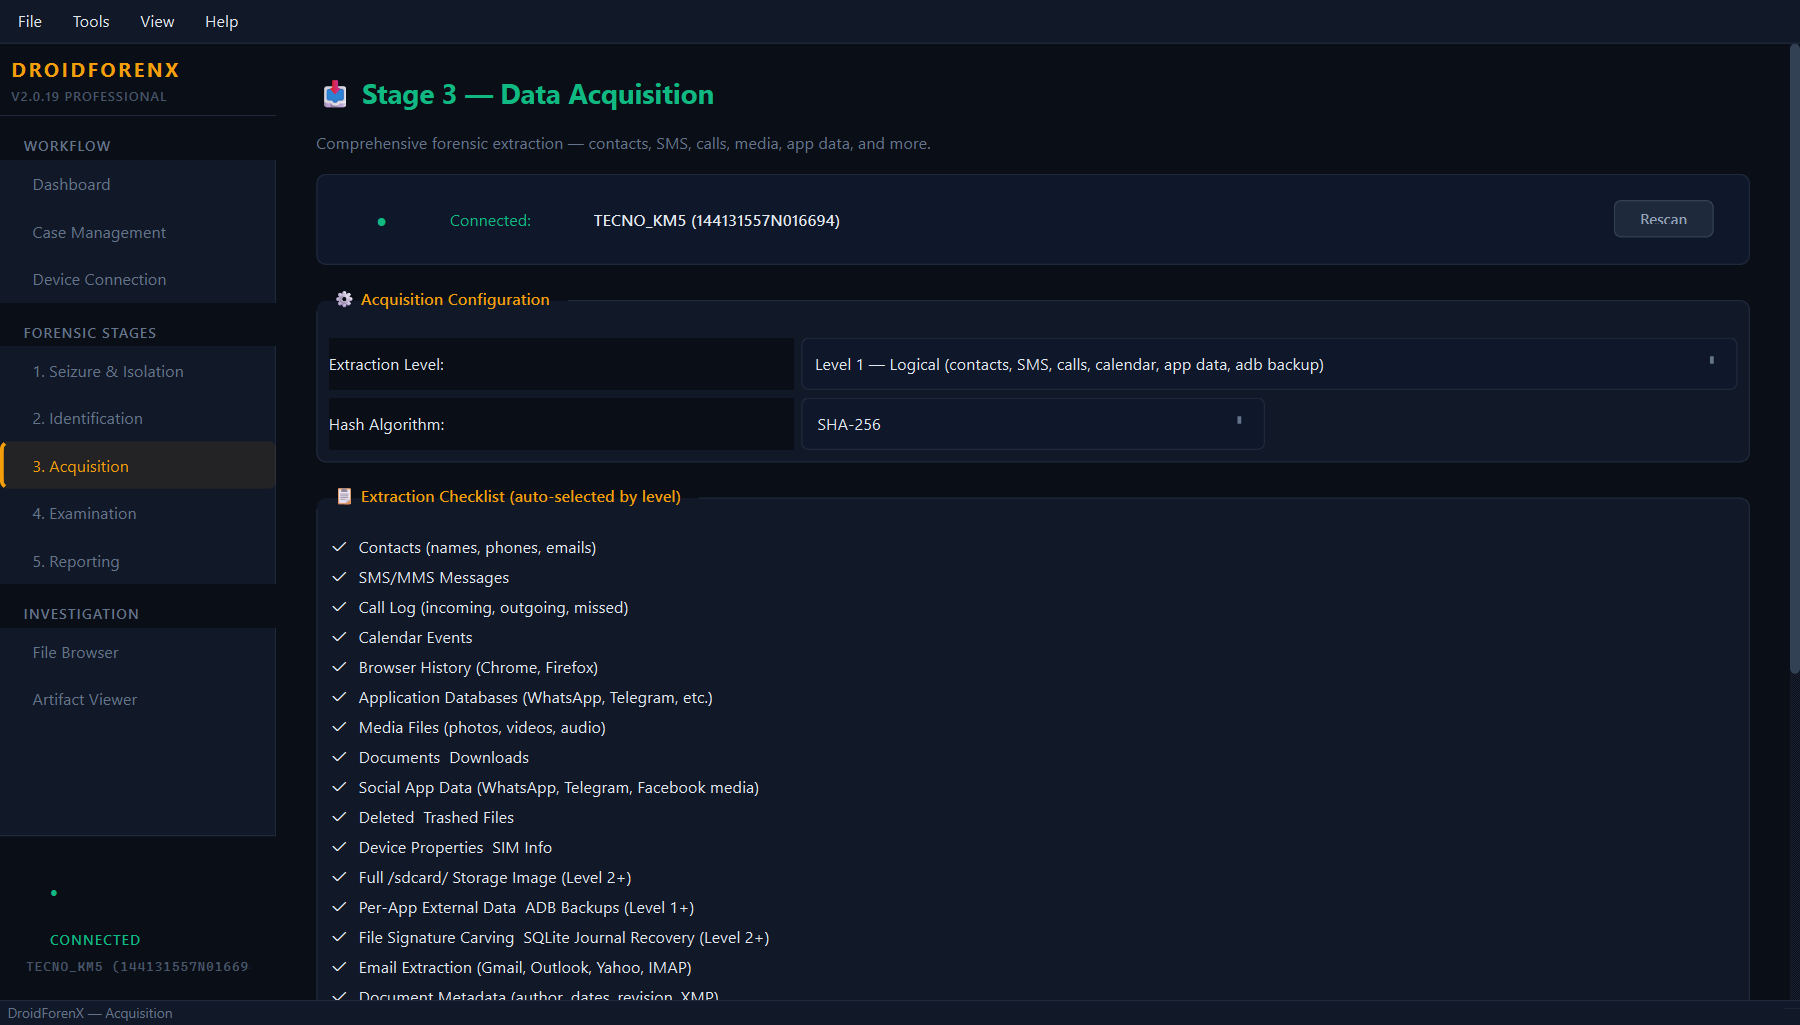
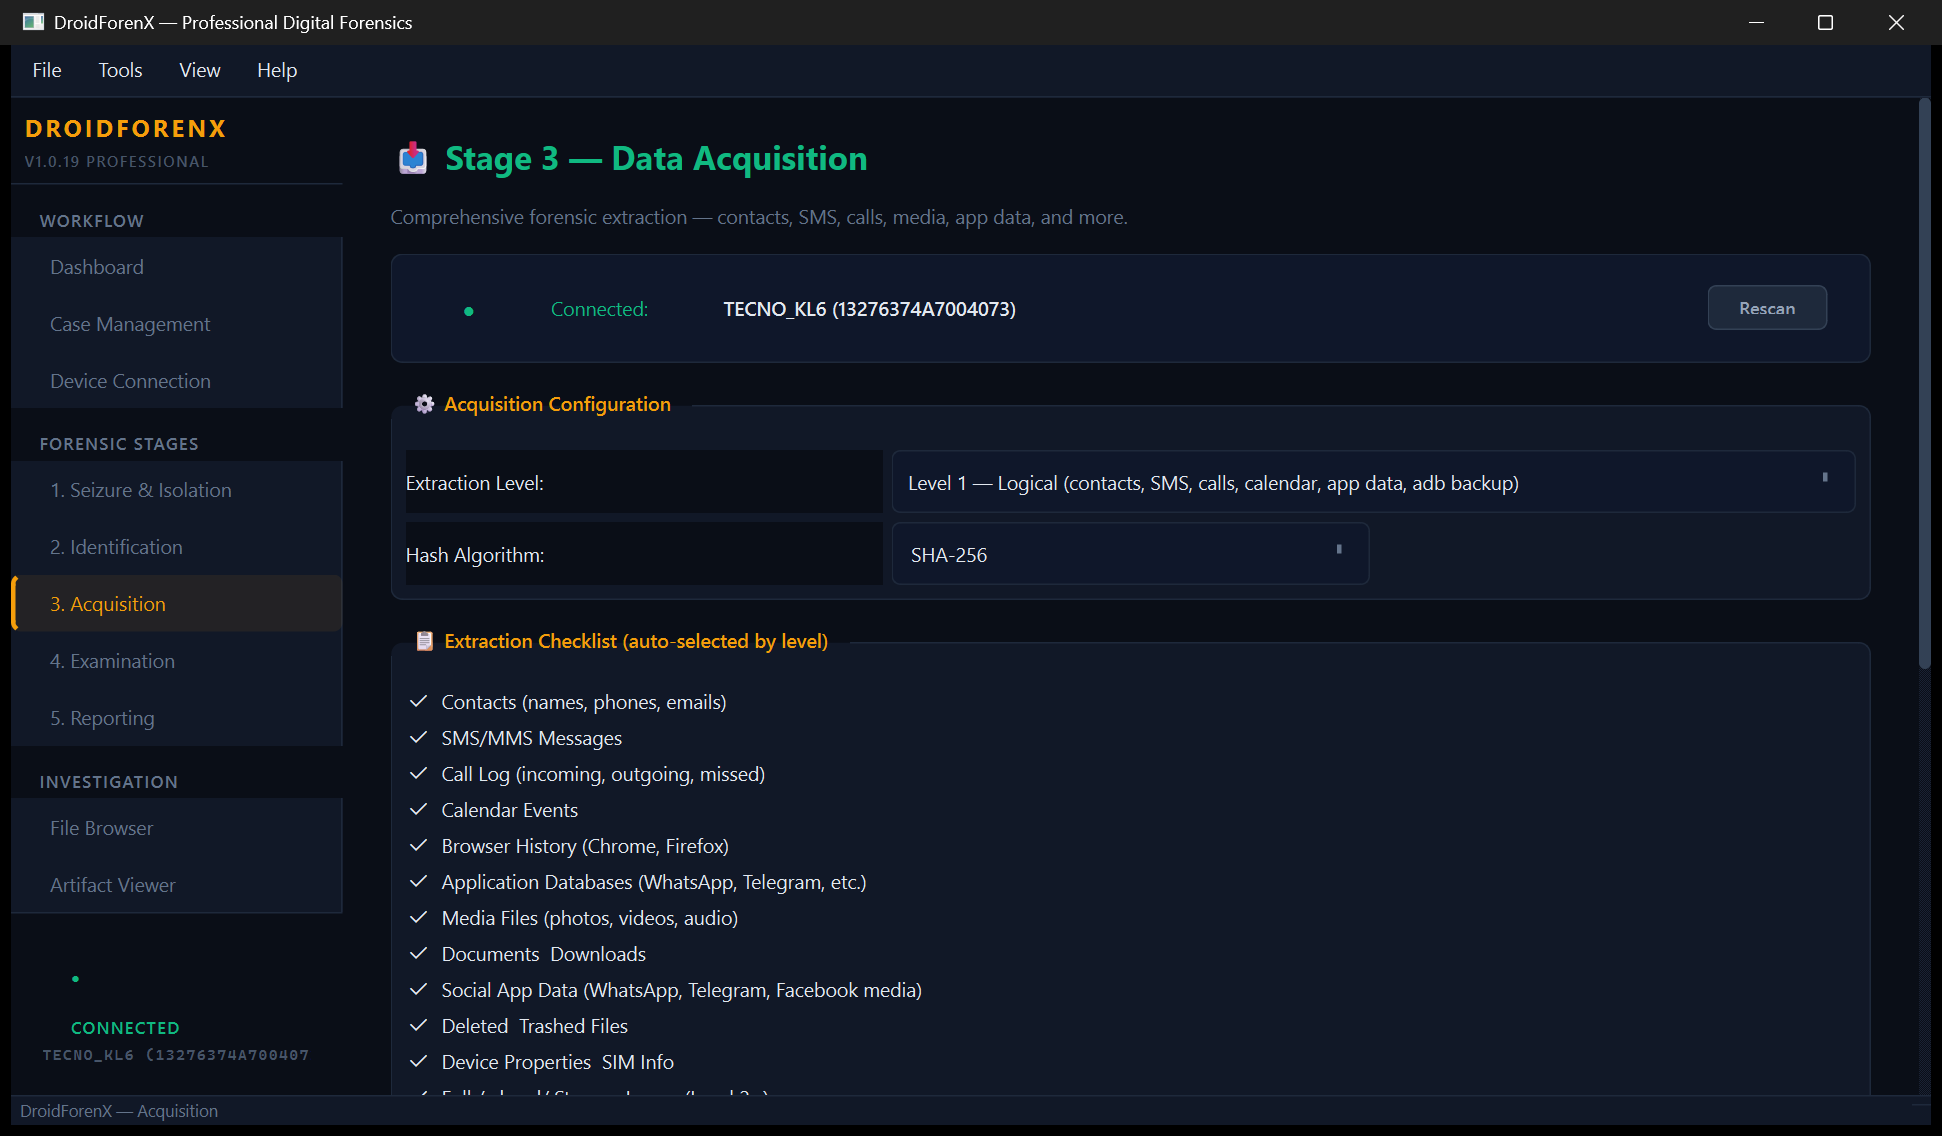
Refresh screenshots against v1.0.19 and repoint the download page

diff --git a/docs/index.html b/docs/index.html
@@ -119,11 +119,11 @@
 </nav>
 
 <section class="hero">
-    <div class="badge"><span class="dot"></span> v2.0.19 — Latest Release</div>
+    <div class="badge"><span class="dot"></span> v1.0.19 — Latest Release</div>
     <h1>Professional Mobile<br>Digital Forensics</h1>
     <p>Standalone desktop toolkit for Android device forensic analysis. 5-stage forensic workflow, 24 artifact loaders, selectable Raw (dd) / ZIP image output, court-ready reporting. Single .exe, no installation.</p>
     <div class="hero-btns">
-        <a class="btn btn-primary" href="https://github.com/tecxe/DroidForenX/releases/download/v2.0.19/DroidForenX.exe" download>
+        <a class="btn btn-primary" href="https://github.com/tecxe/DroidForenX/releases/download/v1.0.19/DroidForenX.exe" download>
             <svg viewBox="0 0 24 24" fill="none" stroke="currentColor" stroke-width="2"><path d="M21 15v4a2 2 0 01-2 2H5a2 2 0 01-2-2v-4"/><polyline points="7 10 12 15 17 10"/><line x1="12" y1="15" x2="12" y2="3"/></svg>
             Download DroidForenX.exe
         </a>
@@ -135,7 +135,7 @@
 </section>
 
 <div class="stats">
-    <div class="stat"><div class="stat-val">53.7 MB</div><div class="stat-label">File Size</div></div>
+    <div class="stat"><div class="stat-val">62.0 MB</div><div class="stat-label">File Size</div></div>
     <div class="stat"><div class="stat-val">5</div><div class="stat-label">Forensic Stages</div></div>
     <div class="stat"><div class="stat-val">24</div><div class="stat-label">Artifact Loaders</div></div>
     <div class="stat"><div class="stat-val">0</div><div class="stat-label">Dependencies Required</div></div>
@@ -235,17 +235,17 @@
             </div>
             <div class="info-card">
                 <div class="label">File Size</div>
-                <div class="value">53.7 MB</div>
+                <div class="value">62.0 MB</div>
             </div>
             <div class="info-card">
                 <div class="label">Version</div>
-                <div class="value">v2.0.19</div>
+                <div class="value">v1.0.19</div>
             </div>
         </div>
 
         <h3 style="margin-bottom:12px">SHA-256 Hash</h3>
         <div class="hash-box">
-            <code id="hash">293c106943000556ad449b16c07e86551b3f7c6eae4c0f0623670641677e7cc0</code>
+            <code id="hash">e395b76898f8d4c1c63168140dfec7dc7524b92d520002702ae0d10eeb64c856</code>
             <button class="copy-btn" onclick="copyHash()">Copy Hash</button>
         </div>
 
@@ -287,11 +287,11 @@
 </section>
 
 <footer>
-    <p>DroidForenX v2.0.19 &middot; Built by <a href="https://github.com/tecxe" target="_blank">tecxe</a> &middot; <a href="https://github.com/tecxe/DroidForenX" target="_blank">Source on GitHub</a></p>
+    <p>DroidForenX v1.0.19 &middot; Built by <a href="https://github.com/tecxe" target="_blank">tecxe</a> &middot; <a href="https://github.com/tecxe/DroidForenX" target="_blank">Source on GitHub</a></p>
 </footer>
 
 <script>
[2 lines of base64/hex data omitted]
 
 function copyHash() {
     navigator.clipboard.writeText(EXPECTED_HASH).then(() => {

diff --git a/README.md b/README.md
@@ -44,7 +44,7 @@ copy, and records an append-only chain of custody for every action.
 ## Screenshots
 
 Every frame below is the running application, not a mock-up, captured on
-**21 October 2026** with a **TECNO KM5** (Android 15 / API 35, unrooted)
+**23 October 2026** with a **TECNO KL6** (Android 14 / API 34, unrooted)
 attached over ADB. The case is a throwaway demonstration case; the
 artifact counts, contacts, messages and calls are read from the phone. Click an
 image to open it at full size.
@@ -59,10 +59,11 @@ agency and status. A case is the container for sessions, images and reports.
 
 ![Case management table showing an open demonstration case](docs/images/case-management.png)
 
-**Device connection** — model, Android version, build fingerprint, serial,
-storage and root state, read over ADB.
+**Device connection** — scan ADB for attached handsets and see each one's model
+and serial before identification; the log underneath keeps the exact command
+that produced the result.
 
-![Device connection page showing a TECNO KM5 connected](docs/images/device-connection.png)
+![Device connection page showing a TECNO KL6 detected](docs/images/device-connection.png)
 
 **Acquisition** — pick an extraction level and the loaders to run. Level 1 is
 logical (contacts, SMS, calls, calendar, app data, ADB backup); Level 2 adds
@@ -71,16 +72,18 @@ shared storage and carving.
 ![Acquisition page with the Level 1 logical profile selected](docs/images/acquisition.png)
 
 **Artifact viewer** — what came back, grouped by app and category. This frame
-was taken against the phone: 8165 SMS, 588 calls and 1110 contacts in one pass.
+was taken against the phone: 42,763 artifacts in one pass, including 860 SMS,
+1,403 calls and 2,249 contacts.
 
 ![Artifact viewer reading messages, calls and contacts from the device](docs/images/artifact-viewer.png)
 
-**Create Image** — image a folder that acquisition already produced. The source
-is the preserved case copy, not the live phone, so the archive is made from
-evidence that was hashed when it was acquired. The ZIP gets its own hash and
-sidecar, and the original files are left untouched.
+**Create Image** — choose the source (connected device, preserved case folder or
+the logical `/sdcard` view), then the output: byte-for-byte Raw (dd) segments or
+a streamed ZIP, with segment size, hash algorithm and an optional re-read
+verification pass. The dialog reads the partition table while you set it up, so
+the device layout is in front of you before anything is committed.
 
-![Create Image dialog archiving an acquired case folder as a ZIP](docs/images/create-image.png)
+![Create Image dialog configured for Raw output from a connected device](docs/images/create-image.png)
 
 **Reporting** — a plain-English, court-ready report built from the case's
 preserved artifacts and chain of custody.
